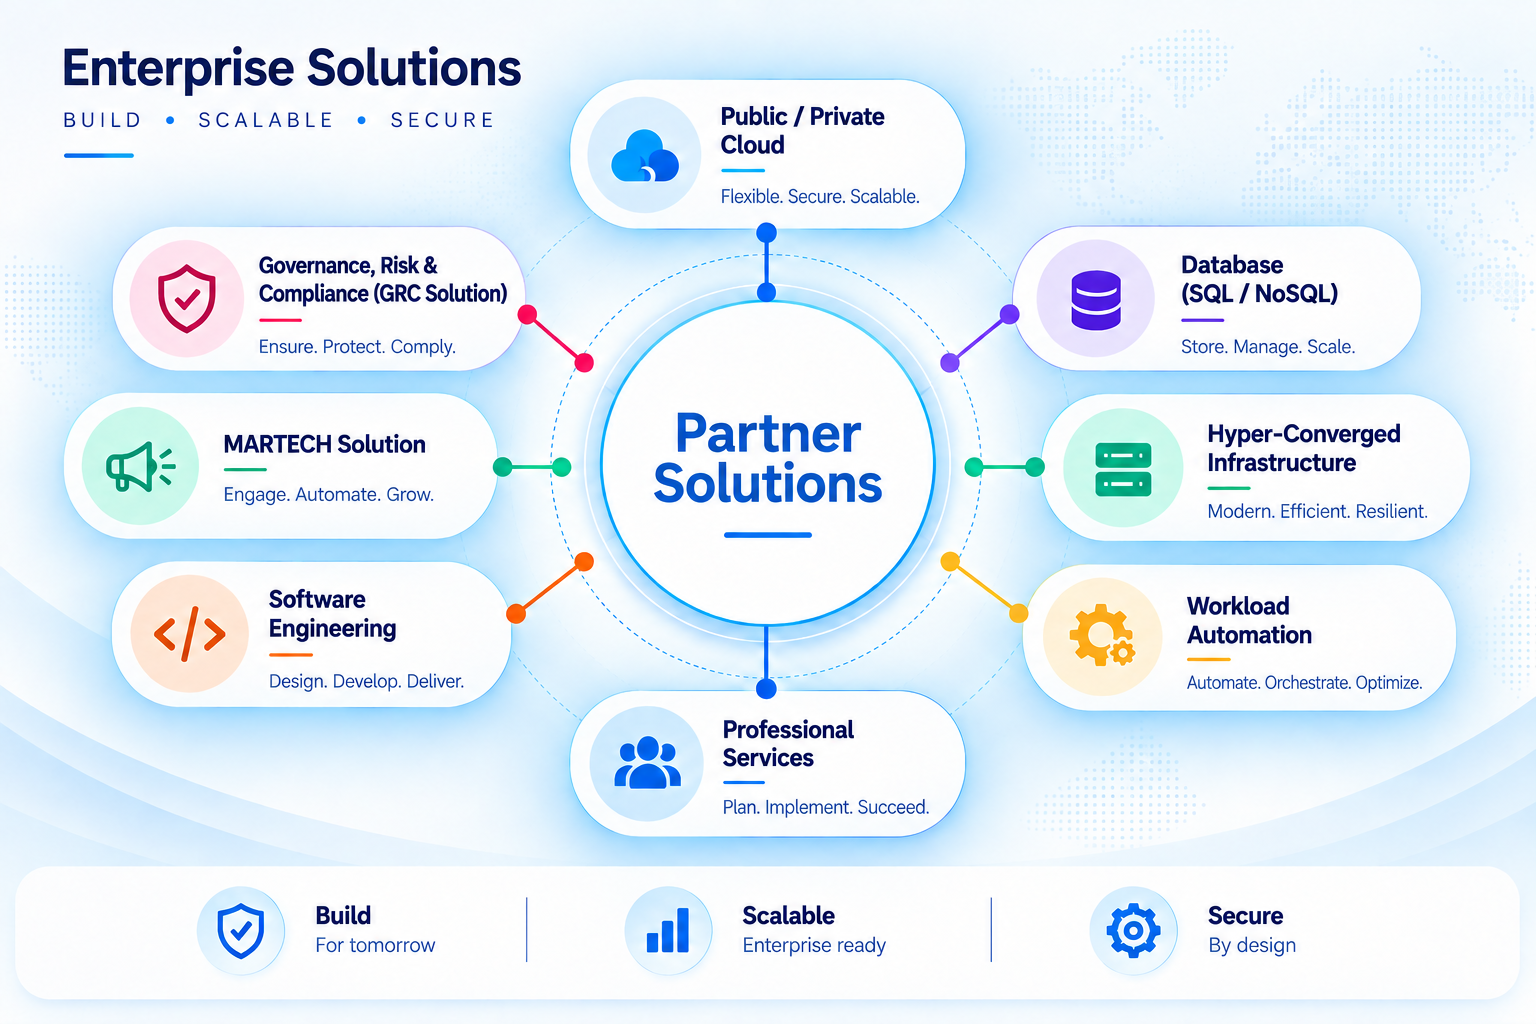
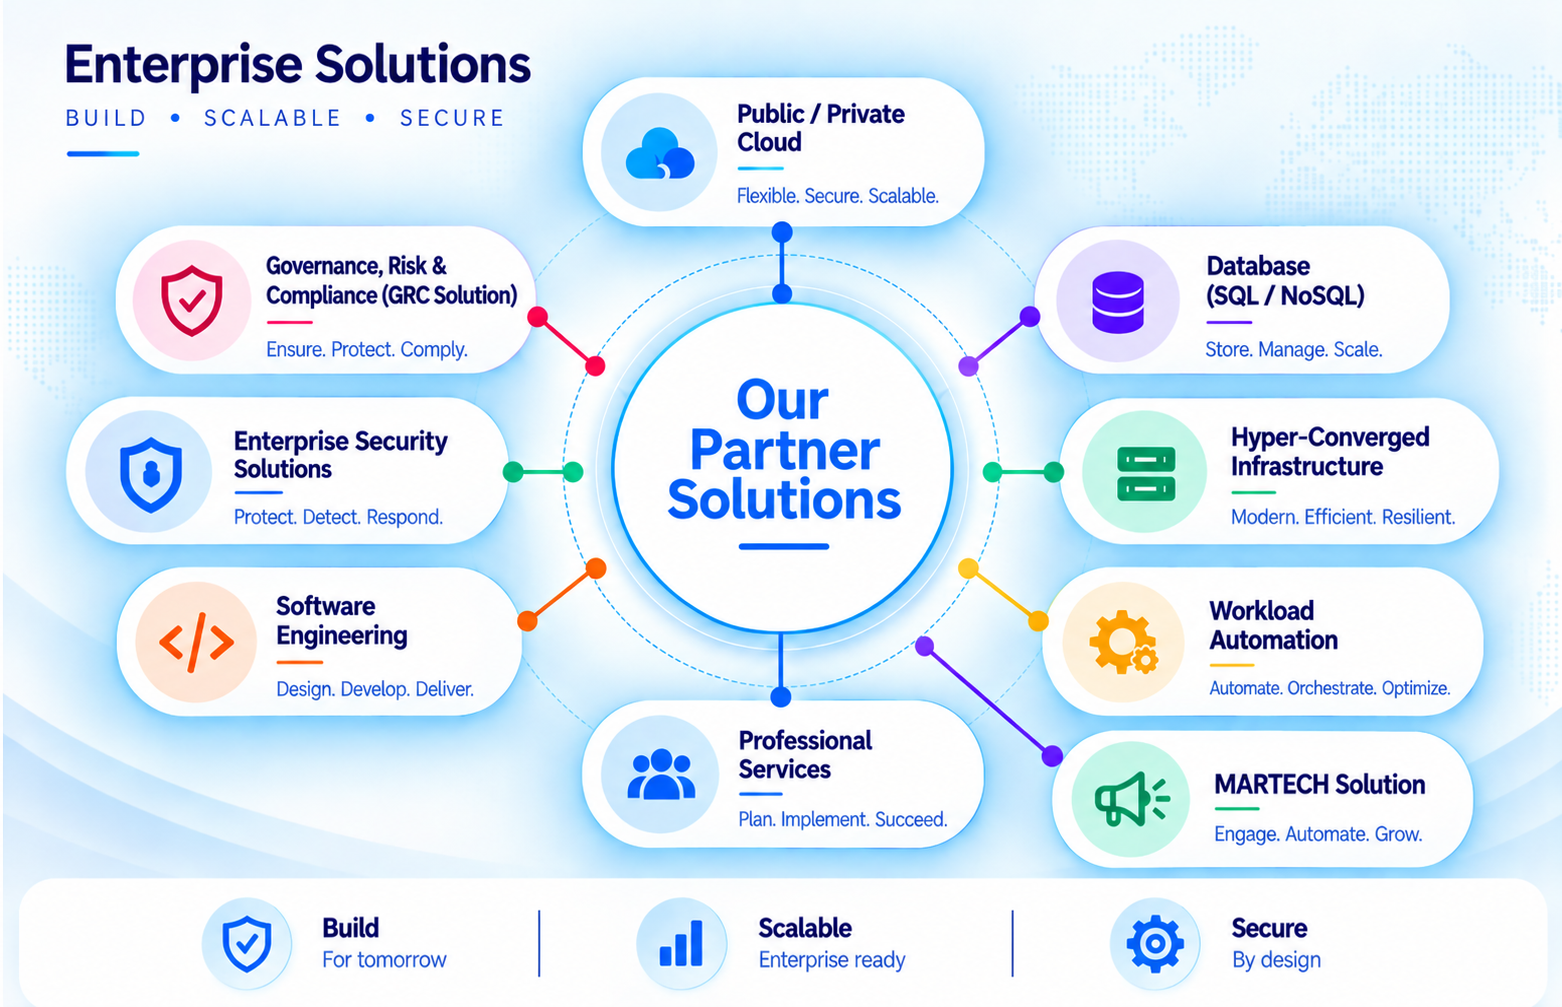
Finalize Softkyte enterprise website

diff --git a/app/page.tsx b/app/page.tsx
@@ -1,6 +1,7 @@
 import Header from "@/components/layout/Header";
 import Footer from "@/components/layout/Footer";
 import Hero from "@/components/home/hero/Hero";
+import Image from "next/image";
 import { ShieldCheck, Award, Mail, Phone, MapPin, ArrowUpRight } from "lucide-react";
 
 export default function Home() {
@@ -20,11 +21,11 @@ export default function Home() {
 
               <div>
                 <p className="text-sm font-semibold uppercase tracking-[0.3em] text-sky-600">
-                  About Softkyte
+                  About Softkyte Technologies Pvt Ltd
                 </p>
 
                 <h2 className="mt-5 text-4xl font-bold tracking-tight text-slate-900 md:text-5xl">
-                  Enterprise Technology. Integrated Expertise.
+                  Partnered with Enterprise Software Solutions.
                 </h2>
               </div>
 
@@ -32,7 +33,7 @@ export default function Home() {
                 <p className="text-lg leading-8 text-slate-600">
                   We empower enterprise growth by aligning core infrastructure,
                   security, and compliance solutions with specialized enterprise
-                  database expertise.
+                  software solutions.
                 </p>
 
                 <p className="mt-5 text-lg leading-8 text-slate-600">
@@ -83,7 +84,7 @@ export default function Home() {
                   </div>
 
                   <h3 className="text-2xl font-bold tracking-tight text-slate-900">
-                    Dedicated Oracle Database Practice
+                    Enterprise Database Practice
                   </h3>
 
                   <p className="mt-5 leading-7 text-slate-600">
@@ -110,7 +111,7 @@ export default function Home() {
 
                   <p className="mt-5 leading-7 text-slate-600">
                     Strategic consulting, architecture and cloud integration,
-                    enterprise security, compliance, and technology roadmapping.
+                    enterprise security, compliance, and technology roadmapping by aligning with OEM professional services.
                   </p>
 
                   <div className="mt-8 h-px w-12 bg-sky-500 transition-all duration-300 group-hover:w-20" />
@@ -226,6 +227,20 @@ export default function Home() {
               </div>
 
             </div>
+
+            {/* IAF Accreditation Forum */}
+            <div className="mt-14 flex flex-col items-center justify-center text-center">
+              <Image
+                src="/images/iaf-logo.png"
+                alt="International Accreditation Forum (IAF)"
+                width={220}
+                height={150}
+                className="h-auto w-[170px] md:w-[210px]"
+              />
+              <p className="mt-3 text-sm font-medium text-slate-500">
+                International Accreditation Forum
+              </p>
+            </div>
           </div>
         </section>
 
@@ -243,7 +258,7 @@ export default function Home() {
               </p>
 
               <h2 className="mt-4 text-4xl font-bold tracking-tight text-slate-900 md:text-5xl">
-                Technology Solutions Built Around Your Industry
+                Technology solutions built around your industry.
               </h2>
 
               <p className="mt-6 text-lg leading-8 text-slate-600">
@@ -320,14 +335,14 @@ export default function Home() {
                 </p>
               </div>
 
-              {/* Pharmaceutical */}
+              {/* Healthcare & Pharma */}
               <div className="rounded-2xl border border-slate-200 bg-white p-7 shadow-sm transition duration-300 hover:-translate-y-1 hover:shadow-lg">
                 <div className="flex h-12 w-12 items-center justify-center rounded-xl bg-blue-50 text-lg font-bold text-[#0B2A56]">
                   05
                 </div>
 
                 <h3 className="mt-6 text-xl font-semibold text-slate-900">
-                  Pharmaceutical
+                  Healthcare & Pharma
                 </h3>
 
                 <p className="mt-3 text-sm leading-6 text-slate-600">
@@ -400,7 +415,7 @@ export default function Home() {
                 <div className="mt-8 border-t border-white/10 pt-8">
                   <p className="flex items-center gap-3 text-sm font-semibold uppercase tracking-wider text-sky-300">
                     <Phone size={17} />
-                    Phone
+                    Contact No
                   </p>
 
                   <a
@@ -413,28 +428,48 @@ export default function Home() {
 
               </div>
 
-              {/* Office */}
-              <div className="rounded-[2rem] border border-white/10 bg-white/[0.06] p-8 backdrop-blur md:p-10">
+              {/* Office & Coverage */}
+              <div className="grid gap-6">
 
-                <div className="flex h-14 w-14 items-center justify-center rounded-2xl bg-sky-500/15">
-                  <MapPin
-                    size={27}
-                    strokeWidth={1.7}
-                    className="text-sky-300"
-                  />
+                {/* Registered Office */}
+                <div className="rounded-[2rem] border border-white/10 bg-white/[0.06] p-8 backdrop-blur md:p-10">
+
+                  <div className="flex h-14 w-14 items-center justify-center rounded-2xl bg-sky-500/15">
+                    <MapPin
+                      size={27}
+                      strokeWidth={1.7}
+                      className="text-sky-300"
+                    />
+                  </div>
+
+                  <p className="mt-10 text-sm font-semibold uppercase tracking-wider text-sky-300">
+                    Registered Office
+                  </p>
+
+                  <p className="mt-3 text-xl font-bold leading-8 text-white">
+                    No: 25, Ground Floor, 15th Main Road,
+                    <br />
+                    H - Block, Anna Nagar - West,
+                    <br />
+                    Chennai – 600040, Tamil Nadu, India
+                  </p>
+
                 </div>
 
-                <p className="mt-10 text-sm font-semibold uppercase tracking-wider text-sky-300">
-                  Registered Office
-                </p>
+                {/* Client Coverage Geography */}
+                <div className="rounded-[2rem] border border-white/10 bg-white/[0.06] p-8 backdrop-blur md:p-10">
 
-                <p className="mt-3 text-xl font-bold leading-8 text-white">
-                  No: 25, Ground Floor, 15th Main Road,
-                  <br />
-                  H - Block, Anna Nagar - West,
-                  <br />
-                  Chennai – 600040, India
-                </p>
+                  
+
+                  <p className="mt-10 text-sm font-semibold uppercase tracking-wider text-sky-300">
+                    Enterprise clients Coverage across:
+                  </p>
+
+                  <p className="mt-3 text-xl font-bold leading-8 text-white">
+                    India, Middle East & Asia Pacific. 
+                  </p>
+
+                </div>
 
               </div>
 

diff --git a/components/layout/Header.tsx b/components/layout/Header.tsx
@@ -41,7 +41,7 @@ export default function Header() {
             href="/#about"
             className="font-medium text-slate-700 transition hover:text-sky-600"
           >
-            About
+            About Us
           </Link>
 
           <Link
@@ -50,18 +50,26 @@ export default function Header() {
           >
             Credentials
           </Link>
+
           <Link
-  href="/#industries"
-  className="font-medium text-slate-700 transition hover:text-sky-600"
->
-  Focused Industries
-</Link>
+            href="/#industries"
+            className="font-medium text-slate-700 transition hover:text-sky-600"
+          >
+            Focused Industries
+          </Link>
 
           <Link
             href="/#contact"
             className="font-medium text-slate-700 transition hover:text-sky-600"
           >
             Contact
+          </Link>
+
+          <Link
+            href="/#contact"
+            className="font-medium text-slate-700 transition hover:text-sky-600"
+          >
+            Careers
           </Link>
         </nav>
 
@@ -102,7 +110,7 @@ export default function Header() {
               onClick={closeMenu}
               className="border-b border-slate-100 py-4 font-medium text-slate-700 transition hover:text-sky-600"
             >
-              About
+              About Us
             </Link>
 
             <Link
@@ -112,19 +120,29 @@ export default function Header() {
             >
               Credentials
             </Link>
+
             <Link
-  href="/#industries"
-  onClick={closeMenu}
-  className="border-b border-slate-100 py-4 font-medium text-slate-700 transition hover:text-sky-600"
->
-  Focused Industries
-</Link>
+              href="/#industries"
+              onClick={closeMenu}
+              className="border-b border-slate-100 py-4 font-medium text-slate-700 transition hover:text-sky-600"
+            >
+              Focused Industries
+            </Link>
+
             <Link
               href="/#contact"
               onClick={closeMenu}
               className="border-b border-slate-100 py-4 font-medium text-slate-700 transition hover:text-sky-600"
             >
               Contact
+            </Link>
+
+            <Link
+              href="/#contact"
+              onClick={closeMenu}
+              className="border-b border-slate-100 py-4 font-medium text-slate-700 transition hover:text-sky-600"
+            >
+              Careers
             </Link>
 
             <Link

diff --git a/components/layout/Footer.tsx b/components/layout/Footer.tsx
@@ -13,7 +13,7 @@ export default function Footer() {
               href="/"
               className="inline-block text-2xl font-bold tracking-tight"
             >
-              Softkyte Technologies
+              Softkyte Technologies Pvt Ltd
             </Link>
 
             <p className="mt-5 max-w-md leading-7 text-blue-100/60">
@@ -95,7 +95,7 @@ export default function Footer() {
         {/* Bottom */}
         <div className="mt-14 flex flex-col gap-4 border-t border-white/10 pt-7 md:flex-row md:items-center md:justify-between">
           <p className="text-sm text-blue-100/40">
-            © 2026 Softkyte Technologies. All Rights Reserved.
+            © 2026 Softkyte Technologies Pvt Ltd. All Rights Reserved.
           </p>
 
           <p className="text-sm text-blue-100/40">
